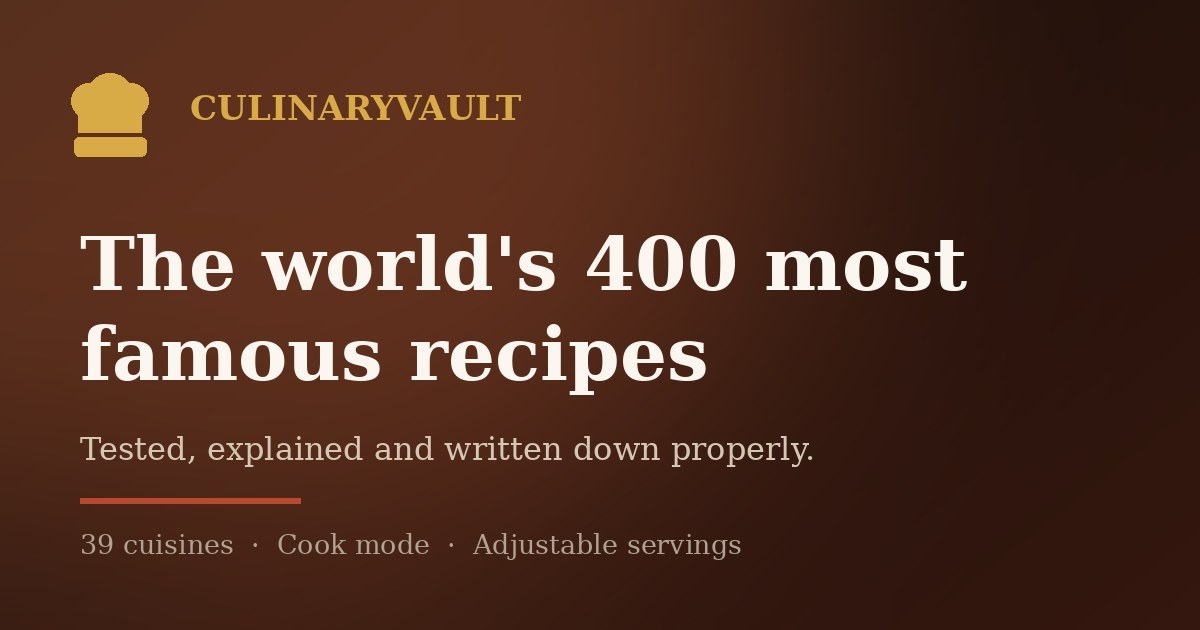
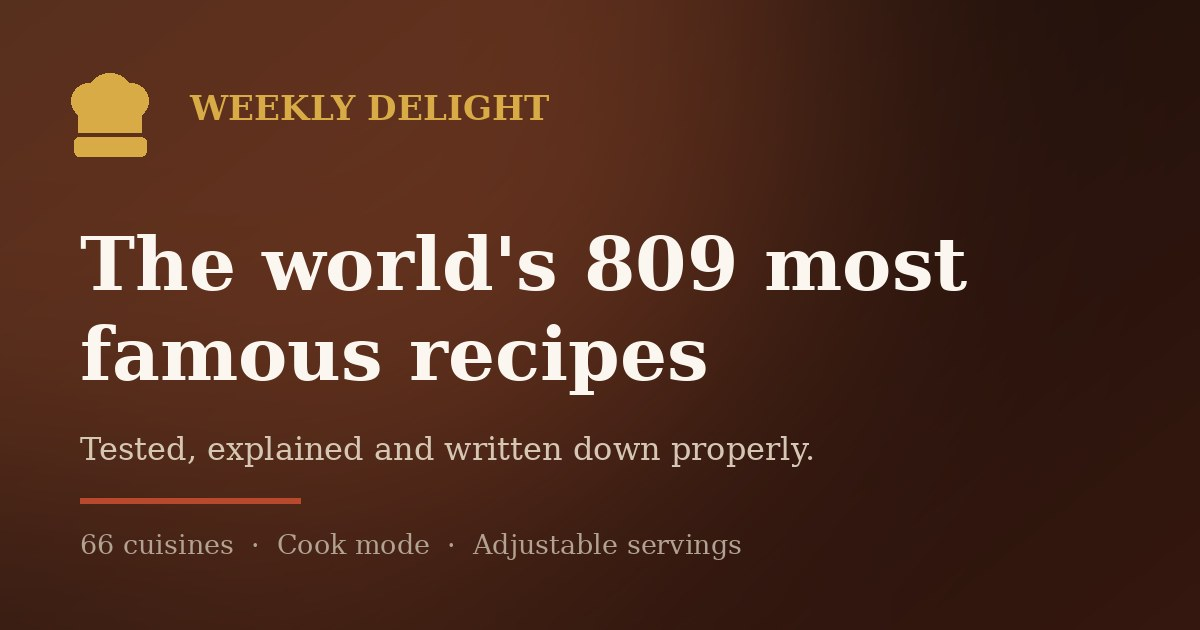
Regenerate the social card from the site's own data
The card read "CULINARYVAULT — The world's 400 most famous recipes / 39
cuisines". The site is Weekly Delight, has 809 recipes and 66 cuisines, and
that image was the share preview for 34 pages.

It went stale because every word of it was a literal in make_icons.py, and
nothing regenerates the card on a build, so the numbers could drift for as
long as nobody looked. The brand and both counts are now read from
src/templates/layout.js, src/data/stats.js and src/lib/util.js — the same
modules the site renders from. The headline is wrapped by measuring it rather
than split across two hardcoded lines, so the count can gain a digit without
the layout needing a decision.

Nothing can read text back out of a JPEG, so make_icons.py records what it
stamped in src/data/og-default.json and check.js compares that against the
live values, failing with "re-run npm run icons". Confirmed by rewriting the
stamp to the old brand and count: two failures.

Claude-Session: https://claude.ai/code/session_01FyVhsNr3V2Vx91o4c3d6Sz

diff --git a/tools/check.js b/tools/check.js
@@ -513,6 +513,33 @@ if (!vercelCsp) {
   }
 }
 
+/* --- the social card still says what is true ------------------------------
+   assets/img/og-default.jpg is the share preview for every page without a
+   picture of its own, and it puts the brand and two counts in writing. It is
+   also the one asset no build regenerates, so it went stale invisibly: it read
+   "CULINARYVAULT — the world's 400 most famous recipes" long after the site
+   was Weekly Delight with 809 of them, and it was the preview for 34 pages.
+   Nothing can read text back out of a JPEG, so make_icons.py records what it
+   stamped and that record is compared here. Re-run `npm run icons` to fix. */
+{
+  const stampPath = path.join(__dirname, '..', 'src', 'data', 'og-default.json');
+  if (!fs.existsSync(stampPath)) {
+    problems.push('src/data/og-default.json is missing, so nothing knows what the social card says');
+  } else {
+    const stamped = JSON.parse(fs.readFileSync(stampPath, 'utf8'));
+    const { SITE } = require('../src/templates/layout');
+    const { recipeCount } = require('../src/data/stats');
+    const { CUISINES } = require('../src/lib/util');
+    const live = { brand: SITE.name, recipes: recipeCount, cuisines: Object.keys(CUISINES).length };
+    for (const key of ['brand', 'recipes', 'cuisines']) {
+      if (String(stamped[key]) !== String(live[key])) {
+        problems.push(`the social card says ${key} is ${stamped[key]} but the site says ${live[key]}`
+          + ' — re-run npm run icons');
+      }
+    }
+  }
+}
+
 /* --- diet claims --------------------------------------------------------- */
 /* Every tag now, not just Gluten-Free. These are the claims a reader cannot
    check for themselves — someone coeliac or vegan is trusting the label over the

diff --git a/tools/make_icons.py b/tools/make_icons.py
@@ -1,12 +1,54 @@
 #!/usr/bin/env python3
 """Generate the brand marks: SVG favicon, PWA icons and the default OG card.
 Run once; the output is committed as source under src/assets/img/."""
+import json
 import os
+import subprocess
 from PIL import Image, ImageDraw, ImageFilter, ImageFont
 
 ROOT = os.path.dirname(os.path.dirname(os.path.abspath(__file__)))
 OUT = os.path.join(ROOT, "src", "assets", "img")
 os.makedirs(OUT, exist_ok=True)
+
+
+def site_facts():
+    """The brand and the two counts the OG card puts in writing.
+
+    Read out of the same modules the site renders from rather than typed in
+    here. The card is the one asset nothing regenerates on a build, so a number
+    hardcoded in it goes stale silently — this one said "CULINARYVAULT" and
+    "the world's 400 most famous recipes" on a site called Weekly Delight with
+    809 of them, and it was the social preview for 34 pages.
+    """
+    expr = (
+        "const {SITE}=require('./src/templates/layout');"
+        "const {recipeCount}=require('./src/data/stats');"
+        "const {CUISINES}=require('./src/lib/util');"
+        "process.stdout.write(JSON.stringify({"
+        "name:SITE.name,recipes:recipeCount,cuisines:Object.keys(CUISINES).length}))"
+    )
+    return json.loads(subprocess.check_output(["node", "-e", expr], cwd=ROOT).decode())
+
+
+_facts = site_facts()
+BRAND = _facts["name"]
+RECIPE_COUNT = _facts["recipes"]
+CUISINE_COUNT = _facts["cuisines"]
+
+
+def wrap(text, fnt, max_width):
+    """Greedy word wrap measured in the font the line is drawn in."""
+    lines, line = [], ""
+    for word in text.split():
+        trial = f"{line} {word}".strip()
+        if line and fnt.getbbox(trial)[2] > max_width:
+            lines.append(line)
+            line = word
+        else:
+            line = trial
+    if line:
+        lines.append(line)
+    return lines
 
 TERRACOTTA = (184, 73, 44)
 BRASS = (176, 134, 47)
@@ -93,12 +135,31 @@ og = Image.blend(og, glow, 0.42)
 draw = ImageDraw.Draw(og)
 
 chef_hat(draw, 110, 120, 0.9, (216, 171, 70))
-draw.text((190, 88), "CULINARYVAULT", font=font(34), fill=(216, 171, 70))
-draw.text((80, 220), "The world's 400 most", font=font(74), fill=CREAM)
-draw.text((80, 310), "famous recipes", font=font(74), fill=CREAM)
+draw.text((190, 88), BRAND.upper(), font=font(34), fill=(216, 171, 70))
+
+# The headline is wrapped rather than split by hand. It used to be two literal
+# lines, which is how it came to read "The world's 400 most famous recipes" on
+# a site that had grown to 809 — the number could not change without someone
+# also re-deciding where the line broke. Measuring it means the count can grow
+# a digit and the card still lays out.
+HEADLINE_W = 1040
+y = 220
+for line in wrap(f"The world's {RECIPE_COUNT} most famous recipes", font(74), HEADLINE_W):
+    draw.text((80, y), line, font=font(74), fill=CREAM)
+    y += 90
+
 draw.text((80, 430), "Tested, explained and written down properly.", font=font(32, bold=False), fill=(214, 199, 180))
 draw.line([80, 500, 300, 500], fill=(184, 73, 44), width=6)
-draw.text((80, 528), "39 cuisines  ·  Cook mode  ·  Adjustable servings", font=font(27, bold=False), fill=(178, 162, 145))
+draw.text((80, 528), f"{CUISINE_COUNT} cuisines  ·  Cook mode  ·  Adjustable servings",
+          font=font(27, bold=False), fill=(178, 162, 145))
 og.save(os.path.join(OUT, "og-default.jpg"), "JPEG", quality=88, optimize=True)
+
+# What the card says, in a form something can check. The image itself is the
+# only place these numbers appear, and nothing can read them back out of a
+# JPEG — so they are written down beside it and tools/check.js compares them
+# against the live values. That is what turns "the card is stale" from
+# something a person has to notice into a failing build.
+json.dump({"brand": BRAND, "recipes": RECIPE_COUNT, "cuisines": CUISINE_COUNT},
+          open(os.path.join(ROOT, "src", "data", "og-default.json"), "w"), indent=1)
 
 print("wrote:", ", ".join(sorted(f for f in os.listdir(OUT) if not os.path.isdir(os.path.join(OUT, f)))))
